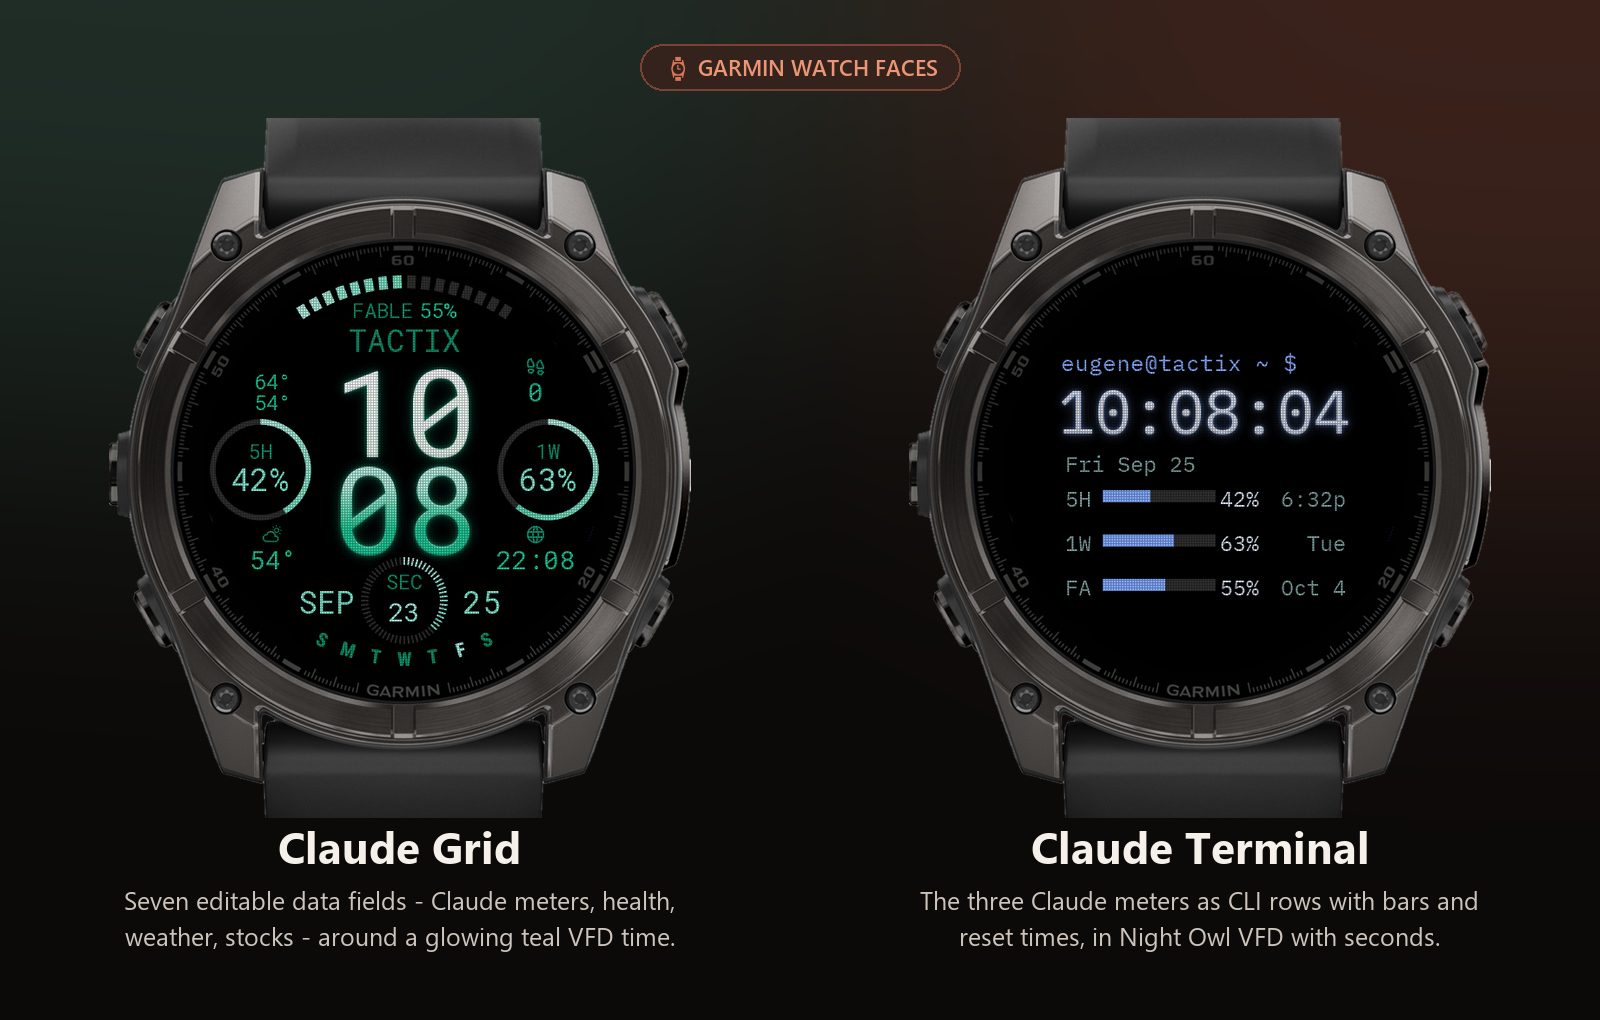
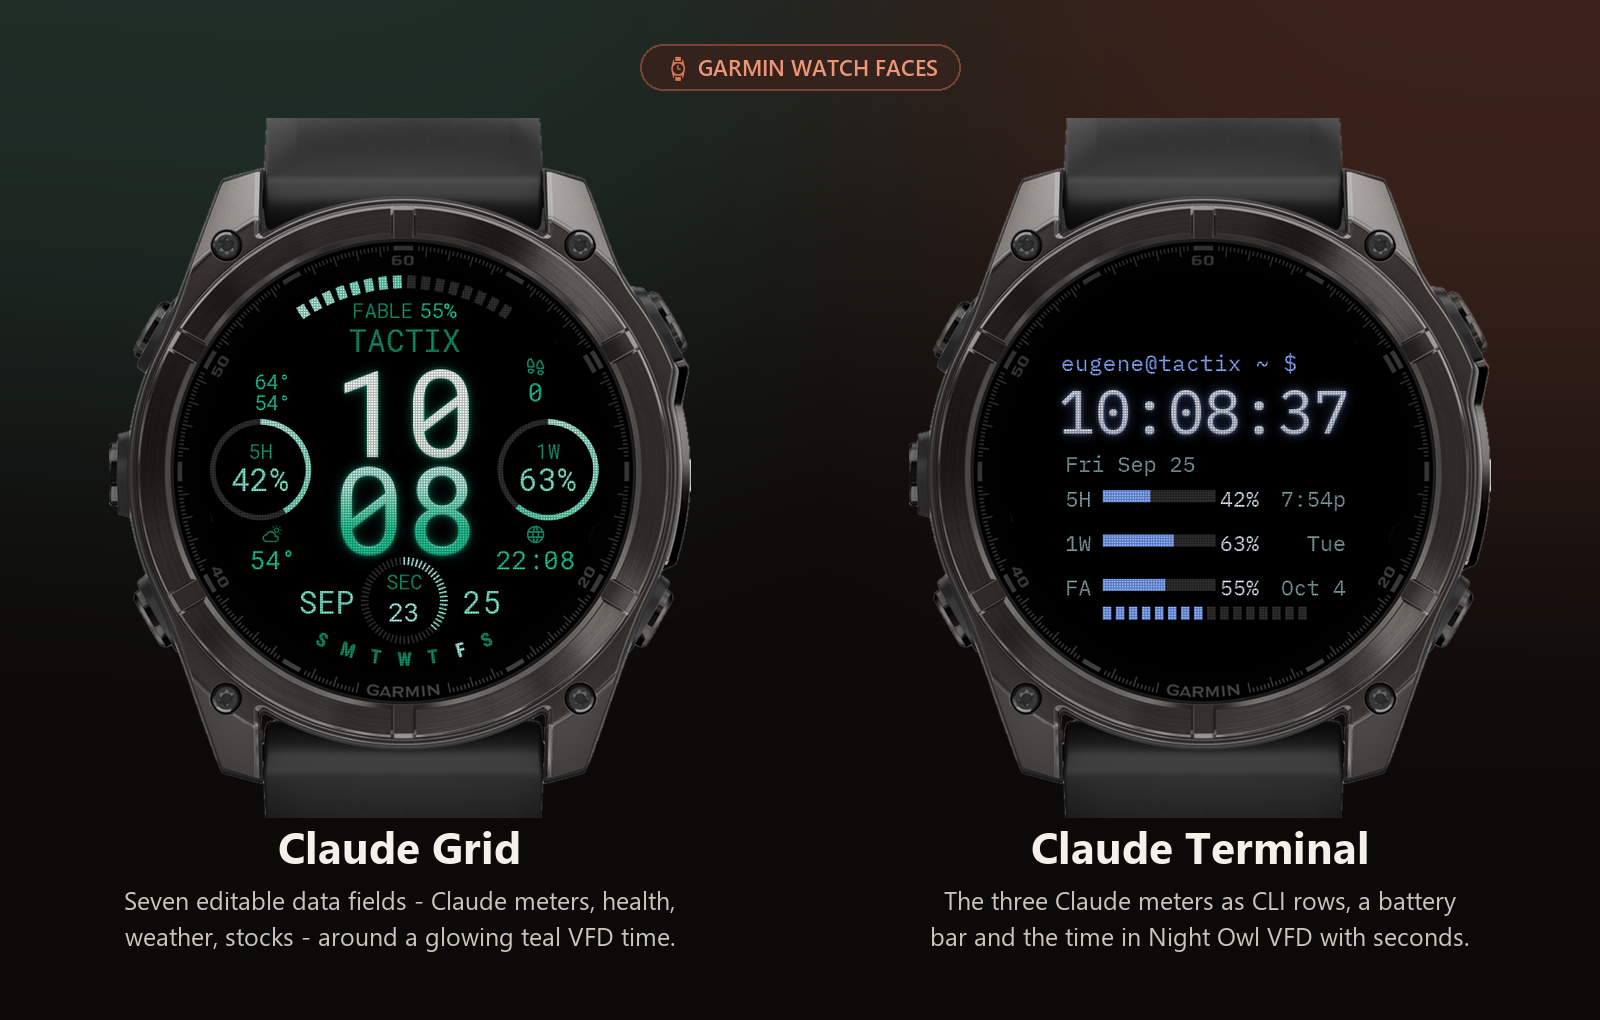
Claude Terminal: segmented battery bar under the meters; editor element
The straight counterpart of Claude Grid's top battery arc, at the same scale: 16 segments
of 10 x 15 px, 5 px apart on the 454 px screen (235 px long), centred, top at y=0.845 -
just below the three meter rows. Whole-pixel segments (integer width, gap and origin), so
the edges are as hard as the meter bars. Lit segments = ceil(16 x battery%), accent colour,
NEAR_CAP red at 20% or below; unlit = the track grey. Sizes scale by screen width.

Editor: a "Battery bar" element (drag / arrows / Tab like the others) that starts below the
meter rows, with Segments / Segment w / Segment gap / Bar height controls, a Battery %
preview slider, and a "battery" line in the copied settings block. It draws with exactly
the face's integer maths (checked: same x0 = 110 and top = 384 on 454 px; 70 % -> 12 lit
accent, 15 % -> 3 lit red).

README + docs/watchfaces.png updated (re-captured with the bar).

Changed region(s): [[0.5938, 0.8814, 0.9062, 0.9422], [0.6875, 0.5775, 0.8125, 0.6078], [0.7812, 0.3647, 0.8438, 0.4255]]

diff --git a/watchface-terminal/editor/claude-terminal-editor.html b/watchface-terminal/editor/claude-terminal-editor.html
@@ -41,8 +41,9 @@
       <div class="row"><label>Second</label><input type="range" id="pvS" min="0" max="59" step="1"><span class="val" id="pvSV"></span></div>
       <div class="row"><label>Day</label><input type="range" id="pvD" min="1" max="31" step="1"><span class="val" id="pvDV"></span></div>
       <div class="row"><label>Month</label><input type="range" id="pvMo" min="1" max="12" step="1"><span class="val" id="pvMoV"></span></div>
+      <div class="row"><label title="battery bar fill; 20% or less uses the Cap colour">Battery %</label><input type="range" id="pvB" min="0" max="100" step="1"><span class="val" id="pvBV"></span></div>
       <div class="row chk"><input type="checkbox" id="pv24" checked><label style="flex:0 0 auto">24-hour</label><button class="sec" id="pvNow" style="margin:0 0 0 auto">Now</button></div>
-      <div class="muted">Drives the time and the date line. Preview only - not part of the settings block.</div>
+      <div class="muted">Drives the time, the date line and the battery bar. Preview only - not part of the settings block.</div>
     </div>
     <div class="panel">
       <h2>Selected: <span id="selName">- none -</span></h2>
@@ -57,6 +58,10 @@
       <div id="ctlResetX" class="row" style="display:none"><label>Reset x</label><input type="range" id="rxR" min="0.55" max="0.98" step="0.001"><span class="val" id="rxRV"></span></div>
       <div id="ctlCurW" class="row" style="display:none"><label>Cursor w</label><input type="range" id="cwR" min="0.01" max="0.12" step="0.001"><span class="val" id="cwRV"></span></div>
       <div id="ctlCurH" class="row" style="display:none"><label>Cursor h</label><input type="range" id="chR" min="0.01" max="0.09" step="0.001"><span class="val" id="chRV"></span></div>
+      <div id="ctlBSegs" class="row" style="display:none"><label>Segments</label><input type="range" id="bsR" min="4" max="30" step="1"><span class="val" id="bsRV"></span></div>
+      <div id="ctlBSegW" class="row" style="display:none"><label>Segment w</label><input type="range" id="bswR" min="0.004" max="0.050" step="0.001"><span class="val" id="bswRV"></span></div>
+      <div id="ctlBGap" class="row" style="display:none"><label>Segment gap</label><input type="range" id="bgR" min="0.000" max="0.030" step="0.001"><span class="val" id="bgRV"></span></div>
+      <div id="ctlBH" class="row" style="display:none"><label>Bar height</label><input type="range" id="bbhR" min="0.004" max="0.080" step="0.001"><span class="val" id="bbhRV"></span></div>
       <div id="ctlNone" class="muted">Click a line on the watch to edit it.</div>
     </div>
     <div class="panel">
@@ -111,6 +116,10 @@ function defaults(){return {
     rows:  {name:"Meter rows",  kind:"rows", y:0.532, gap:0.113, size:25,
             labelX:0.148, barX:0.242, barW:0.287, barH:0.030, pctX:0.639, resetX:0.858},
     cursor:{name:"Cursor",      kind:"cursor", x:0.526, y:2.000, w:0.030, h:0.028},
+    // Straight counterpart of Claude Grid's top battery arc, at the same scale: 16 segments,
+    // 10 x 15 px on the 454 px screen, 5 px apart (235 px long). Centred on x, top-aligned at y;
+    // starts just below the meter rows.
+    batt:  {name:"Battery bar", kind:"batt", x:0.500, y:0.845, segs:16, segW:0.022, gap:0.011, h:0.033},
   }};}
 
 let P=defaults(), sel=null, guide=null, boxes={};
@@ -118,7 +127,7 @@ let P=defaults(), sel=null, guide=null, boxes={};
 // Preview clock (sliders). Formats follow the face: hour "%02d" (12 h -> 01-12), date "Fri Sep 25".
 const MONTHS=["Jan","Feb","Mar","Apr","May","Jun","Jul","Aug","Sep","Oct","Nov","Dec"], DAYS=["Sun","Mon","Tue","Wed","Thu","Fri","Sat"];
 let PV;
-function pvNow(){ const n=new Date(); PV={h:n.getHours(),m:n.getMinutes(),s:n.getSeconds(),day:n.getDate(),mon:n.getMonth()+1,year:n.getFullYear(),h24:PV?PV.h24:true}; }
+function pvNow(){ const n=new Date(); PV={h:n.getHours(),m:n.getMinutes(),s:n.getSeconds(),day:n.getDate(),mon:n.getMonth()+1,year:n.getFullYear(),h24:PV?PV.h24:true,batt:PV?PV.batt:70}; }
 pvNow();
 function pad2(v){ return (v<10?"0":"")+v; }
 function daysIn(){ return new Date(PV.year,PV.mon,0).getDate(); }
@@ -167,10 +176,16 @@ function drawEl(k){ const e=P.el[k];
   if(e.kind=="cursor"){ const x=e.x*SZ, y=e.y*SZ, w=e.w*SZ, h=e.h*SZ; ctx.fillStyle=P.accent;
     const x0=Math.round(x-w/2), y0=Math.round(y); ctx.fillRect(x0,y0,Math.round(x-w/2+w)-x0,Math.round(y+h)-y0);
     boxes[k]=[x-w/2-4,y-4,x+w/2+4,y+h+4]; return; }
+  if(e.kind=="batt"){ // exactly the face's drawBattery(): whole-pixel segments, centred on x
+    const n=e.segs, sw=Math.max(1,Math.round(e.segW*SZ)), gp=Math.round(e.gap*SZ), bh=Math.max(1,Math.round(e.h*SZ));
+    const total=n*sw+(n-1)*gp, x0=Math.round(e.x*SZ)-Math.floor(total/2), y0=Math.round(e.y*SZ);
+    const lit=Math.min(n,Math.ceil(n*PV.batt/100)), low=PV.batt<=20;
+    for(let i=0;i<n;i++){ ctx.fillStyle=(i<lit)?(low?P.cap:P.accent):P.track; ctx.fillRect(x0+i*(sw+gp),y0,sw,bh); }
+    boxes[k]=[x0-4,y0-4,x0+total+4,y0+bh+4]; return; }
 }
 
 function draw(){ P.vfd=document.getElementById("vfd").checked; ctx.fillStyle=P.bg; ctx.fillRect(0,0,SZ,SZ); boxes={};
-  ["prompt","time","date","rows","cursor"].forEach(drawEl);
+  ["prompt","time","date","rows","batt","cursor"].forEach(drawEl);
   if(P.vfd) meshOverlay();
   if(sel&&boxes[sel]){ const b=boxes[sel]; ctx.strokeStyle="#D97757"; ctx.lineWidth=1; ctx.setLineDash([4,3]); ctx.strokeRect(b[0],b[1],b[2]-b[0],b[3]-b[1]); ctx.setLineDash([]); }
   if(guide){ ctx.strokeStyle="#39d98a"; ctx.lineWidth=1; ctx.setLineDash([3,3]);
@@ -231,7 +246,8 @@ function setR(rid,vid,val,dp){ document.getElementById(rid).value=val; document.
 function syncPanel(){ const e=sel?P.el[sel]:null;
   document.getElementById("selName").textContent=e?e.name:"- none -";
   document.getElementById("ctlNone").style.display=e?"none":"block";
-  const isRows=e&&e.kind=="rows", isCur=e&&e.kind=="cursor";
+  const isRows=e&&e.kind=="rows", isCur=e&&e.kind=="cursor", isBatt=e&&e.kind=="batt";
+  show("ctlBSegs",isBatt); show("ctlBSegW",isBatt); show("ctlBGap",isBatt); show("ctlBH",isBatt);
   show("ctlText",e&&e.kind=="text");
   show("ctlSize",e&&(e.kind=="text"||e.kind=="time"||e.kind=="date"||isRows));
   show("ctlGap",isRows); show("ctlLabelX",isRows); show("ctlBarX",isRows); show("ctlBarW",isRows);
@@ -243,6 +259,7 @@ function syncPanel(){ const e=sel?P.el[sel]:null;
   if(e.kind=="text") document.getElementById("txt").value=e.text;
   if(isRows){ setR("gapR","gapRV",e.gap,3); setR("lxR","lxRV",e.labelX,3); setR("bxR","bxRV",e.barX,3); setR("bwR","bwRV",e.barW,3); setR("bhR","bhRV",e.barH,3); setR("pxR","pxRV",e.pctX,3); setR("rxR","rxRV",e.resetX,3); }
   if(isCur){ setR("cwR","cwRV",e.w,3); setR("chR","chRV",e.h,3); }
+  if(isBatt){ setR("bsR","bsRV",e.segs,0); setR("bswR","bswRV",e.segW,3); setR("bgR","bgRV",e.gap,3); setR("bbhR","bbhRV",e.h,3); }
 }
 function bindR(rid,vid,dp,fn){ document.getElementById(rid).oninput=function(){ fn(+this.value); document.getElementById(vid).textContent=dp?(+this.value).toFixed(dp):(""+Math.round(+this.value)); draw(); }; }
 bindR("sizeR","sizeRV",0,v=>{ if(sel)P.el[sel].size=v; });
@@ -255,6 +272,10 @@ bindR("pxR","pxRV",3,v=>{ if(sel)P.el[sel].pctX=v; });
 bindR("rxR","rxRV",3,v=>{ if(sel)P.el[sel].resetX=v; });
 bindR("cwR","cwRV",3,v=>{ if(sel)P.el[sel].w=v; });
 bindR("chR","chRV",3,v=>{ if(sel)P.el[sel].h=v; });
+bindR("bsR","bsRV",0,v=>{ if(sel)P.el[sel].segs=v; });
+bindR("bswR","bswRV",3,v=>{ if(sel)P.el[sel].segW=v; });
+bindR("bgR","bgRV",3,v=>{ if(sel)P.el[sel].gap=v; });
+bindR("bbhR","bbhRV",3,v=>{ if(sel)P.el[sel].h=v; });
 document.getElementById("txt").oninput=function(){ if(sel&&P.el[sel].kind=="text"){ P.el[sel].text=this.value; draw(); } };
 document.getElementById("secs").onchange=function(){ P.showSeconds=this.checked; draw(); };
 document.getElementById("vfd").onchange=draw;
@@ -265,8 +286,9 @@ function syncPV(){ document.getElementById("pvD").max=daysIn(); if(PV.day>daysIn
   setR("pvM","pvMV",PV.m,0); document.getElementById("pvMV").textContent=pad2(PV.m);
   setR("pvS","pvSV",PV.s,0); document.getElementById("pvSV").textContent=pad2(PV.s);
   setR("pvD","pvDV",PV.day,0); setR("pvMo","pvMoV",PV.mon,0); document.getElementById("pvMoV").textContent=MONTHS[PV.mon-1].toUpperCase();
+  setR("pvB","pvBV",PV.batt,0); document.getElementById("pvBV").textContent=PV.batt+"%";
   document.getElementById("pv24").checked=PV.h24; }
-[["pvH","h"],["pvM","m"],["pvS","s"],["pvD","day"],["pvMo","mon"]].forEach(([id,key])=>{ document.getElementById(id).oninput=function(){ PV[key]=+this.value; syncPV(); draw(); }; });
+[["pvH","h"],["pvM","m"],["pvS","s"],["pvD","day"],["pvMo","mon"],["pvB","batt"]].forEach(([id,key])=>{ document.getElementById(id).oninput=function(){ PV[key]=+this.value; syncPV(); draw(); }; });
 document.getElementById("pv24").onchange=function(){ PV.h24=this.checked; syncPV(); draw(); };
 document.getElementById("pvNow").onclick=function(){ pvNow(); syncPV(); draw(); };
 
@@ -294,6 +316,8 @@ function refresh(){ const e=P.el; let L=[
     +"  labelX="+e.rows.labelX.toFixed(3)+" barX="+e.rows.barX.toFixed(3)+" barW="+e.rows.barW.toFixed(3)
     +" barH="+e.rows.barH.toFixed(3)+" pctX="+e.rows.pctX.toFixed(3)+" resetX="+e.rows.resetX.toFixed(3),
   "cursor  x="+e.cursor.x.toFixed(3)+" y="+e.cursor.y.toFixed(3)+"  w="+e.cursor.w.toFixed(3)+" h="+e.cursor.h.toFixed(3),
+  "battery x="+e.batt.x.toFixed(3)+" y="+e.batt.y.toFixed(3)+"  segs="+e.batt.segs+" segW="+e.batt.segW.toFixed(3)
+    +" gap="+e.batt.gap.toFixed(3)+" h="+e.batt.h.toFixed(3),
 ]; out.value=L.join("\n"); }
 function copyOut(){ out.select(); document.execCommand("copy"); }
 function reset(){ P=defaults(); sel=null; guide=null; themeSel.value=P.theme; document.getElementById("vfd").checked=P.vfd;

diff --git a/watchface-terminal/editor/build_terminal_editor.py b/watchface-terminal/editor/build_terminal_editor.py
@@ -78,8 +78,9 @@ HTML = r"""<!doctype html>
       <div class="row"><label>Second</label><input type="range" id="pvS" min="0" max="59" step="1"><span class="val" id="pvSV"></span></div>
       <div class="row"><label>Day</label><input type="range" id="pvD" min="1" max="31" step="1"><span class="val" id="pvDV"></span></div>
       <div class="row"><label>Month</label><input type="range" id="pvMo" min="1" max="12" step="1"><span class="val" id="pvMoV"></span></div>
+      <div class="row"><label title="battery bar fill; 20% or less uses the Cap colour">Battery %</label><input type="range" id="pvB" min="0" max="100" step="1"><span class="val" id="pvBV"></span></div>
       <div class="row chk"><input type="checkbox" id="pv24" checked><label style="flex:0 0 auto">24-hour</label><button class="sec" id="pvNow" style="margin:0 0 0 auto">Now</button></div>
-      <div class="muted">Drives the time and the date line. Preview only - not part of the settings block.</div>
+      <div class="muted">Drives the time, the date line and the battery bar. Preview only - not part of the settings block.</div>
     </div>
     <div class="panel">
       <h2>Selected: <span id="selName">- none -</span></h2>
@@ -94,6 +95,10 @@ HTML = r"""<!doctype html>
       <div id="ctlResetX" class="row" style="display:none"><label>Reset x</label><input type="range" id="rxR" min="0.55" max="0.98" step="0.001"><span class="val" id="rxRV"></span></div>
       <div id="ctlCurW" class="row" style="display:none"><label>Cursor w</label><input type="range" id="cwR" min="0.01" max="0.12" step="0.001"><span class="val" id="cwRV"></span></div>
       <div id="ctlCurH" class="row" style="display:none"><label>Cursor h</label><input type="range" id="chR" min="0.01" max="0.09" step="0.001"><span class="val" id="chRV"></span></div>
+      <div id="ctlBSegs" class="row" style="display:none"><label>Segments</label><input type="range" id="bsR" min="4" max="30" step="1"><span class="val" id="bsRV"></span></div>
+      <div id="ctlBSegW" class="row" style="display:none"><label>Segment w</label><input type="range" id="bswR" min="0.004" max="0.050" step="0.001"><span class="val" id="bswRV"></span></div>
+      <div id="ctlBGap" class="row" style="display:none"><label>Segment gap</label><input type="range" id="bgR" min="0.000" max="0.030" step="0.001"><span class="val" id="bgRV"></span></div>
+      <div id="ctlBH" class="row" style="display:none"><label>Bar height</label><input type="range" id="bbhR" min="0.004" max="0.080" step="0.001"><span class="val" id="bbhRV"></span></div>
       <div id="ctlNone" class="muted">Click a line on the watch to edit it.</div>
     </div>
     <div class="panel">
@@ -148,6 +153,10 @@ function defaults(){return {
     rows:  {name:"Meter rows",  kind:"rows", y:0.532, gap:0.113, size:25,
             labelX:0.148, barX:0.242, barW:0.287, barH:0.030, pctX:0.639, resetX:0.858},
     cursor:{name:"Cursor",      kind:"cursor", x:0.526, y:2.000, w:0.030, h:0.028},
+    // Straight counterpart of Claude Grid's top battery arc, at the same scale: 16 segments,
+    // 10 x 15 px on the 454 px screen, 5 px apart (235 px long). Centred on x, top-aligned at y;
+    // starts just below the meter rows.
+    batt:  {name:"Battery bar", kind:"batt", x:0.500, y:0.845, segs:16, segW:0.022, gap:0.011, h:0.033},
   }};}
 
 let P=defaults(), sel=null, guide=null, boxes={};
@@ -155,7 +164,7 @@ let P=defaults(), sel=null, guide=null, boxes={};
 // Preview clock (sliders). Formats follow the face: hour "%02d" (12 h -> 01-12), date "Fri Sep 25".
 const MONTHS=["Jan","Feb","Mar","Apr","May","Jun","Jul","Aug","Sep","Oct","Nov","Dec"], DAYS=["Sun","Mon","Tue","Wed","Thu","Fri","Sat"];
 let PV;
-function pvNow(){ const n=new Date(); PV={h:n.getHours(),m:n.getMinutes(),s:n.getSeconds(),day:n.getDate(),mon:n.getMonth()+1,year:n.getFullYear(),h24:PV?PV.h24:true}; }
+function pvNow(){ const n=new Date(); PV={h:n.getHours(),m:n.getMinutes(),s:n.getSeconds(),day:n.getDate(),mon:n.getMonth()+1,year:n.getFullYear(),h24:PV?PV.h24:true,batt:PV?PV.batt:70}; }
 pvNow();
 function pad2(v){ return (v<10?"0":"")+v; }
 function daysIn(){ return new Date(PV.year,PV.mon,0).getDate(); }
@@ -204,10 +213,16 @@ function drawEl(k){ const e=P.el[k];
   if(e.kind=="cursor"){ const x=e.x*SZ, y=e.y*SZ, w=e.w*SZ, h=e.h*SZ; ctx.fillStyle=P.accent;
     const x0=Math.round(x-w/2), y0=Math.round(y); ctx.fillRect(x0,y0,Math.round(x-w/2+w)-x0,Math.round(y+h)-y0);
     boxes[k]=[x-w/2-4,y-4,x+w/2+4,y+h+4]; return; }
+  if(e.kind=="batt"){ // exactly the face's drawBattery(): whole-pixel segments, centred on x
+    const n=e.segs, sw=Math.max(1,Math.round(e.segW*SZ)), gp=Math.round(e.gap*SZ), bh=Math.max(1,Math.round(e.h*SZ));
+    const total=n*sw+(n-1)*gp, x0=Math.round(e.x*SZ)-Math.floor(total/2), y0=Math.round(e.y*SZ);
+    const lit=Math.min(n,Math.ceil(n*PV.batt/100)), low=PV.batt<=20;
+    for(let i=0;i<n;i++){ ctx.fillStyle=(i<lit)?(low?P.cap:P.accent):P.track; ctx.fillRect(x0+i*(sw+gp),y0,sw,bh); }
+    boxes[k]=[x0-4,y0-4,x0+total+4,y0+bh+4]; return; }
 }
 
 function draw(){ P.vfd=document.getElementById("vfd").checked; ctx.fillStyle=P.bg; ctx.fillRect(0,0,SZ,SZ); boxes={};
-  ["prompt","time","date","rows","cursor"].forEach(drawEl);
+  ["prompt","time","date","rows","batt","cursor"].forEach(drawEl);
   if(P.vfd) meshOverlay();
   if(sel&&boxes[sel]){ const b=boxes[sel]; ctx.strokeStyle="#D97757"; ctx.lineWidth=1; ctx.setLineDash([4,3]); ctx.strokeRect(b[0],b[1],b[2]-b[0],b[3]-b[1]); ctx.setLineDash([]); }
   if(guide){ ctx.strokeStyle="#39d98a"; ctx.lineWidth=1; ctx.setLineDash([3,3]);
@@ -268,7 +283,8 @@ function setR(rid,vid,val,dp){ document.getElementById(rid).value=val; document.
 function syncPanel(){ const e=sel?P.el[sel]:null;
   document.getElementById("selName").textContent=e?e.name:"- none -";
   document.getElementById("ctlNone").style.display=e?"none":"block";
-  const isRows=e&&e.kind=="rows", isCur=e&&e.kind=="cursor";
+  const isRows=e&&e.kind=="rows", isCur=e&&e.kind=="cursor", isBatt=e&&e.kind=="batt";
+  show("ctlBSegs",isBatt); show("ctlBSegW",isBatt); show("ctlBGap",isBatt); show("ctlBH",isBatt);
   show("ctlText",e&&e.kind=="text");
   show("ctlSize",e&&(e.kind=="text"||e.kind=="time"||e.kind=="date"||isRows));
   show("ctlGap",isRows); show("ctlLabelX",isRows); show("ctlBarX",isRows); show("ctlBarW",isRows);
@@ -280,6 +296,7 @@ function syncPanel(){ const e=sel?P.el[sel]:null;
   if(e.kind=="text") document.getElementById("txt").value=e.text;
   if(isRows){ setR("gapR","gapRV",e.gap,3); setR("lxR","lxRV",e.labelX,3); setR("bxR","bxRV",e.barX,3); setR("bwR","bwRV",e.barW,3); setR("bhR","bhRV",e.barH,3); setR("pxR","pxRV",e.pctX,3); setR("rxR","rxRV",e.resetX,3); }
   if(isCur){ setR("cwR","cwRV",e.w,3); setR("chR","chRV",e.h,3); }
+  if(isBatt){ setR("bsR","bsRV",e.segs,0); setR("bswR","bswRV",e.segW,3); setR("bgR","bgRV",e.gap,3); setR("bbhR","bbhRV",e.h,3); }
 }
 function bindR(rid,vid,dp,fn){ document.getElementById(rid).oninput=function(){ fn(+this.value); document.getElementById(vid).textContent=dp?(+this.value).toFixed(dp):(""+Math.round(+this.value)); draw(); }; }
 bindR("sizeR","sizeRV",0,v=>{ if(sel)P.el[sel].size=v; });
@@ -292,6 +309,10 @@ bindR("pxR","pxRV",3,v=>{ if(sel)P.el[sel].pctX=v; });
 bindR("rxR","rxRV",3,v=>{ if(sel)P.el[sel].resetX=v; });
 bindR("cwR","cwRV",3,v=>{ if(sel)P.el[sel].w=v; });
 bindR("chR","chRV",3,v=>{ if(sel)P.el[sel].h=v; });
+bindR("bsR","bsRV",0,v=>{ if(sel)P.el[sel].segs=v; });
+bindR("bswR","bswRV",3,v=>{ if(sel)P.el[sel].segW=v; });
+bindR("bgR","bgRV",3,v=>{ if(sel)P.el[sel].gap=v; });
+bindR("bbhR","bbhRV",3,v=>{ if(sel)P.el[sel].h=v; });
 document.getElementById("txt").oninput=function(){ if(sel&&P.el[sel].kind=="text"){ P.el[sel].text=this.value; draw(); } };
 document.getElementById("secs").onchange=function(){ P.showSeconds=this.checked; draw(); };
 document.getElementById("vfd").onchange=draw;
@@ -302,8 +323,9 @@ function syncPV(){ document.getElementById("pvD").max=daysIn(); if(PV.day>daysIn
   setR("pvM","pvMV",PV.m,0); document.getElementById("pvMV").textContent=pad2(PV.m);
   setR("pvS","pvSV",PV.s,0); document.getElementById("pvSV").textContent=pad2(PV.s);
   setR("pvD","pvDV",PV.day,0); setR("pvMo","pvMoV",PV.mon,0); document.getElementById("pvMoV").textContent=MONTHS[PV.mon-1].toUpperCase();
+  setR("pvB","pvBV",PV.batt,0); document.getElementById("pvBV").textContent=PV.batt+"%";
   document.getElementById("pv24").checked=PV.h24; }
-[["pvH","h"],["pvM","m"],["pvS","s"],["pvD","day"],["pvMo","mon"]].forEach(([id,key])=>{ document.getElementById(id).oninput=function(){ PV[key]=+this.value; syncPV(); draw(); }; });
+[["pvH","h"],["pvM","m"],["pvS","s"],["pvD","day"],["pvMo","mon"],["pvB","batt"]].forEach(([id,key])=>{ document.getElementById(id).oninput=function(){ PV[key]=+this.value; syncPV(); draw(); }; });
 document.getElementById("pv24").onchange=function(){ PV.h24=this.checked; syncPV(); draw(); };
 document.getElementById("pvNow").onclick=function(){ pvNow(); syncPV(); draw(); };
 
@@ -331,6 +353,8 @@ function refresh(){ const e=P.el; let L=[
     +"  labelX="+e.rows.labelX.toFixed(3)+" barX="+e.rows.barX.toFixed(3)+" barW="+e.rows.barW.toFixed(3)
     +" barH="+e.rows.barH.toFixed(3)+" pctX="+e.rows.pctX.toFixed(3)+" resetX="+e.rows.resetX.toFixed(3),
   "cursor  x="+e.cursor.x.toFixed(3)+" y="+e.cursor.y.toFixed(3)+"  w="+e.cursor.w.toFixed(3)+" h="+e.cursor.h.toFixed(3),
+  "battery x="+e.batt.x.toFixed(3)+" y="+e.batt.y.toFixed(3)+"  segs="+e.batt.segs+" segW="+e.batt.segW.toFixed(3)
+    +" gap="+e.batt.gap.toFixed(3)+" h="+e.batt.h.toFixed(3),
 ]; out.value=L.join("\n"); }
 function copyOut(){ out.select(); document.execCommand("copy"); }
 function reset(){ P=defaults(); sel=null; guide=null; themeSel.value=P.theme; document.getElementById("vfd").checked=P.vfd;

diff --git a/README.md b/README.md
@@ -86,7 +86,7 @@ Three Connect IQ projects put the same usage numbers on a fēnix 8 / tactix 8 cl
 | --- | --- |
 | [`watch-usage-app/`](watch-usage-app/README.md) | **Claude Usage** — a glance showing the `5H` / `1W` / per-model meters with their reset times, and the **publisher**: it receives the numbers from the phone and republishes them as three watch **complications** that faces can show. |
 | [`watchface-grid/`](watchface-grid/editor/README.md) | **Claude Grid** — an Iron Grit–style data face: a big stacked time, battery arc, seconds dial and **seven editable data fields** that take *any* complication. |
-| [`watchface-terminal/`](watchface-terminal/README.md) | **Claude Terminal** — a CLI-styled face: a prompt line, the time, the date and the three Claude meters as terminal rows with bars, percentages and reset times. |
+| [`watchface-terminal/`](watchface-terminal/README.md) | **Claude Terminal** — a CLI-styled face: a prompt line, the time, the date, the three Claude meters as terminal rows with bars, percentages and reset times, and a battery bar. |
 
 **How the numbers get there.** The watch never talks to Claude (Cloudflare and credential safety
 both rule it out — see the watch-app README). The phone app pushes the percentages over Bluetooth
@@ -112,6 +112,8 @@ is why the watch app must be installed (and opened once) for the faces to show C
 - The three Claude meters as CLI rows (`5H`, `1W`, model) with bars, percentages and absolute
   reset times, under an `eugene@tactix ~ $` prompt and the time, in IBM Plex Mono on the Night Owl
   palette.
+- A segmented **battery bar** under the meters — Claude Grid's top battery arc, straightened (turns
+  red at 20%).
 - Settings (Garmin Connect): **Show seconds** (on by default), and the **prompt text** — make the
   top line say whatever you like.
 - VFD style by default (glowing time + full-face mesh).

diff --git a/watchface-terminal/README.md b/watchface-terminal/README.md
@@ -2,8 +2,9 @@
 
 A terminal/CLI-styled watch face for fenix 8 class watches (incl. tactix 8), modelled on the
 "Agentic Pro" look. Shows a prompt line, the time, the date, and the three Claude usage meters
-(5H / 1W / model) as CLI rows with bars, percentages, and reset times, in IBM Plex Mono on the
-Night Owl palette, with a glowing VFD time.
+(5H / 1W / model) as CLI rows with bars, percentages, and reset times, plus a segmented battery
+bar (the straight counterpart of Claude Grid's battery arc), in IBM Plex Mono on the Night Owl
+palette, with a glowing VFD time.
 
 Updated: 2026-09-25
 
